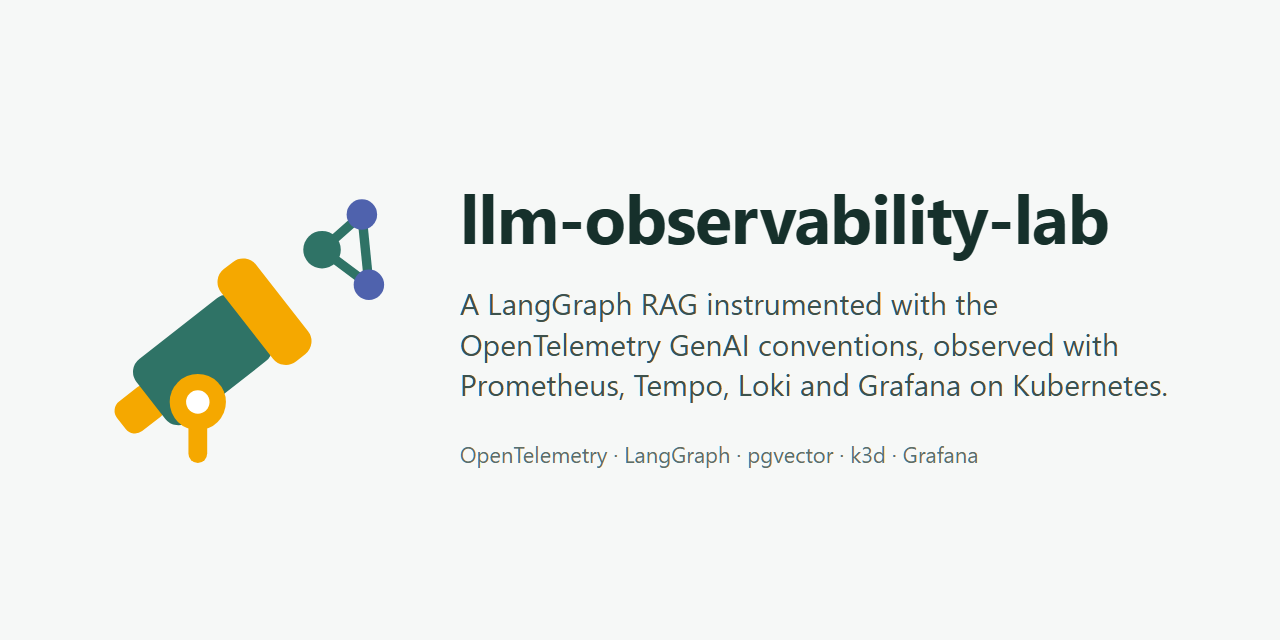
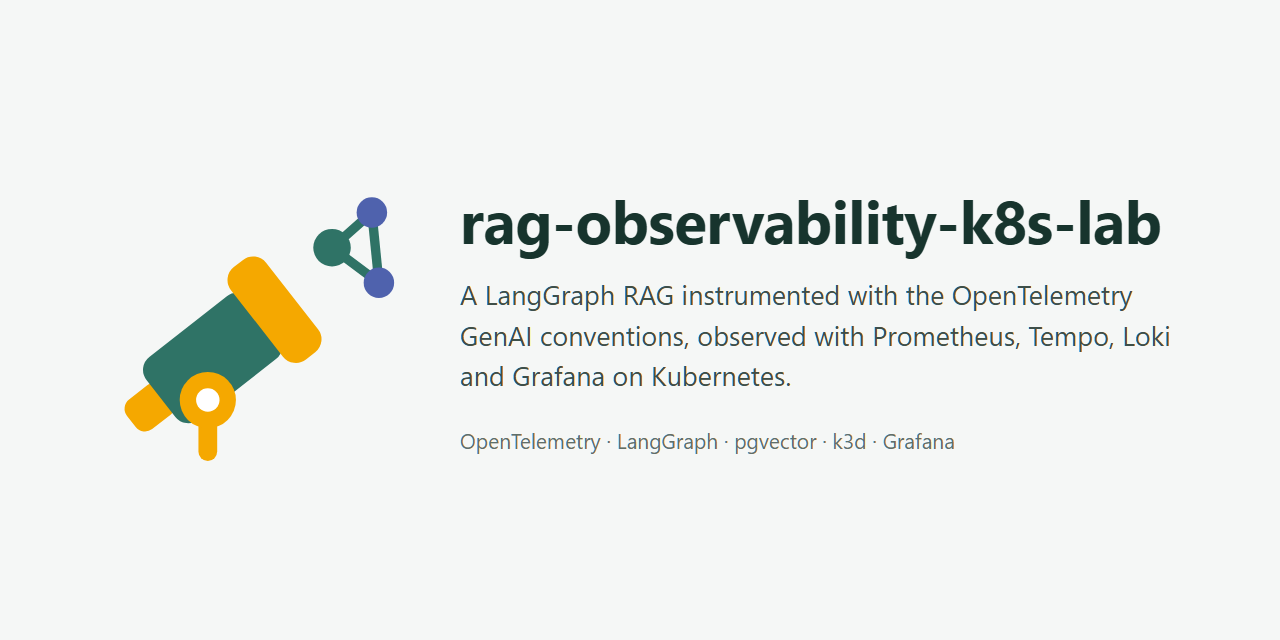
Rename the project to rag-observability-k8s-lab (#25)

diff --git a/README.md b/README.md
@@ -1,6 +1,6 @@
-# <img src="docs/img/logo.svg" width="44" align="top" alt=""> llm-observability-lab
+# <img src="docs/img/logo.svg" width="44" align="top" alt=""> rag-observability-k8s-lab
 
-[![CI](https://github.com/jmiliamine/llm-observability-lab/actions/workflows/ci.yml/badge.svg)](https://github.com/jmiliamine/llm-observability-lab/actions/workflows/ci.yml)
+[![CI](https://github.com/jmiliamine/rag-observability-k8s-lab/actions/workflows/ci.yml/badge.svg)](https://github.com/jmiliamine/rag-observability-k8s-lab/actions/workflows/ci.yml)
 [![License: MIT](https://img.shields.io/badge/license-MIT-blue)](LICENSE)
 [![Python 3.14](https://img.shields.io/badge/python-3.14-3776ab?logo=python&logoColor=white)](pyproject.toml)
 [![OpenTelemetry GenAI conventions](https://img.shields.io/badge/OpenTelemetry-GenAI%20conventions-f5a800?logo=opentelemetry&logoColor=white)](https://opentelemetry.io/docs/specs/semconv/gen-ai/)
